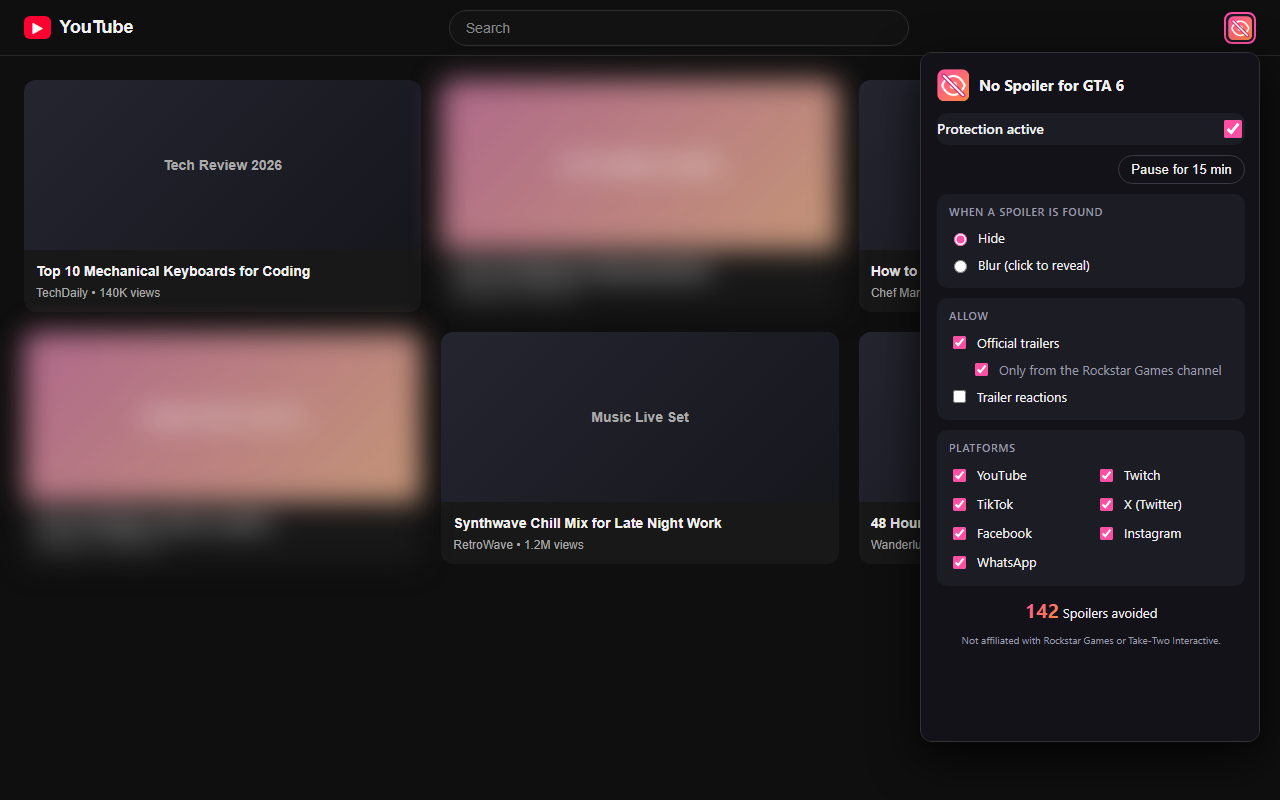
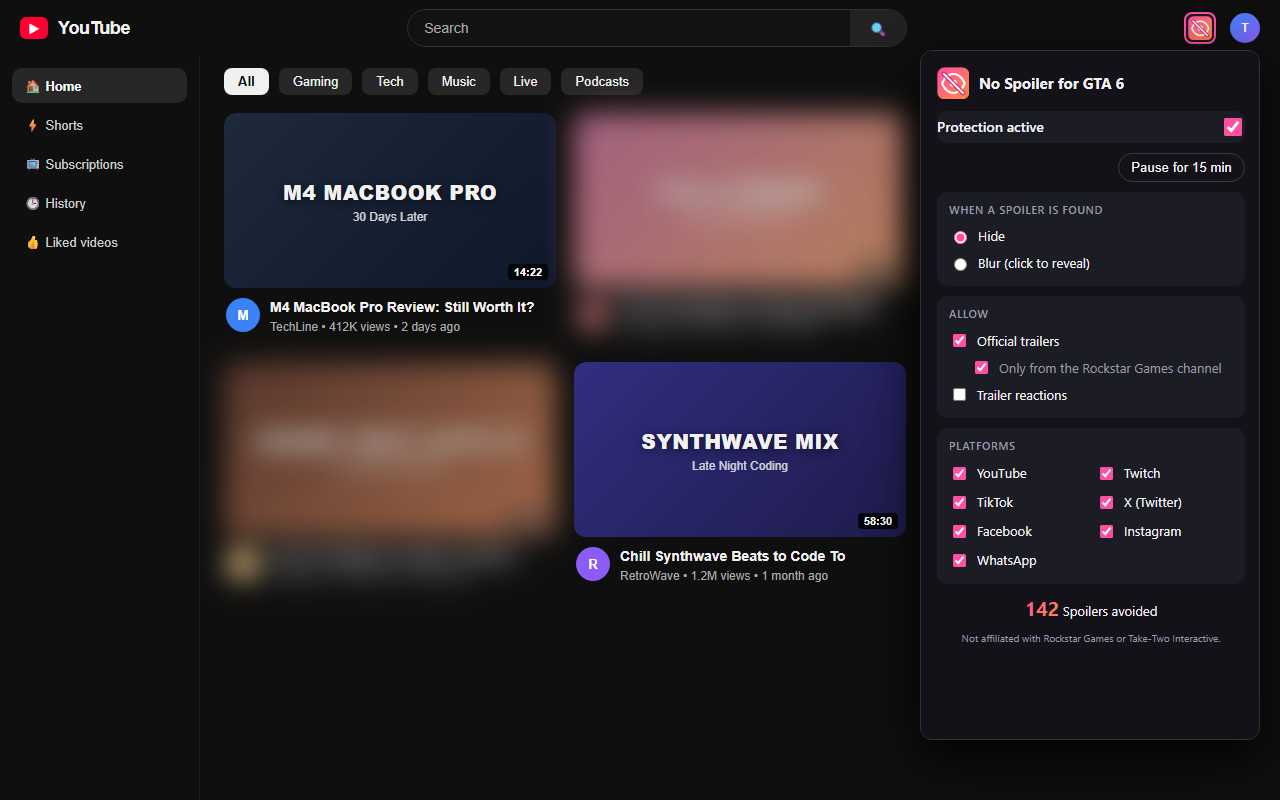
Update realistic 1280x800 store screenshots

diff --git a/STORE_LISTING.md b/STORE_LISTING.md
@@ -59,8 +59,9 @@ Required to run the content script on the supported platforms enabled by the use
 ## 3. Assets já prontos em `store-assets/`
 - **Screenshots (`1280x800`):**
   - `store-assets/screenshot-1-popup-1280x800.png`
-  - `store-assets/screenshot-2-blur-1280x800.png`
-  - `store-assets/screenshot-3-overlay-1280x800.png`
+  - `store-assets/screenshot-2-blur-compare-1280x800.png`
+  - `store-assets/screenshot-3-social-1280x800.png`
+  - `store-assets/screenshot-4-overlay-1280x800.png`
 - **Banners promocionais:**
   - Small promo tile (`440x280`): `store-assets/promo-small-440x280.png`
   - Marquee promo tile (`1400x560`): `store-assets/promo-marquee-1400x560.png`

diff --git a/README.md b/README.md
@@ -40,9 +40,9 @@ Enable or disable protection individually per platform in the extension popup:
 
 ## Screenshots
 
-| Extension Popup | Blur Mode (Official Trailers Allowed) |
+| Extension Popup | Protection OFF vs Blur Mode ON |
 |---|---|
-| ![Popup](store-assets/screenshot-1-popup-1280x800.png) | ![Blur Mode](store-assets/screenshot-2-blur-1280x800.png) |
+| ![Popup](store-assets/screenshot-1-popup-1280x800.png) | ![Blur Mode](store-assets/screenshot-2-blur-compare-1280x800.png) |
 
 ## Install Locally (Developer Mode)
 
